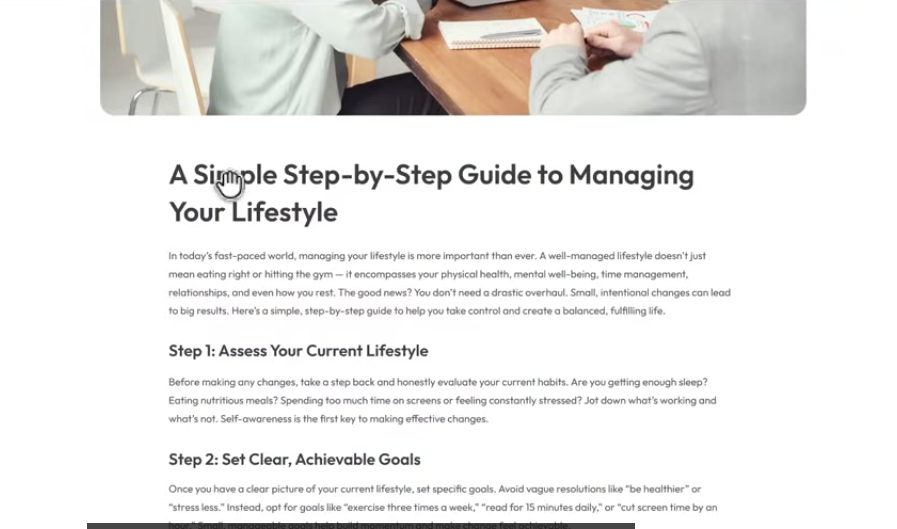
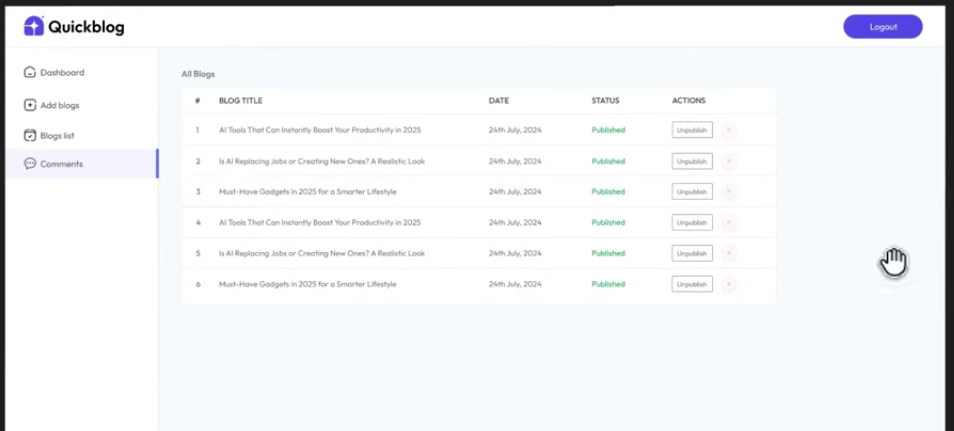
:triangular_flag_on_post: Implement admin panel structure with routing, layout, and basic components
Login Page UI completed

diff --git a/client/src/pages/admin/Login.jsx b/client/src/pages/admin/Login.jsx
@@ -1,0 +1,42 @@
+import {useState} from "react";
+
+
+function Login() {
+    const [inputs, setInputs] = useState({
+        email: "",
+        password: ""
+    })
+
+    const handleSubmit = async (e) => {
+        e.preventDefault();
+    }
+    const handleChange = (e) => {
+        const name = e.target.name;
+        const value = e.target.value;
+
+        setInputs(prevState => ({...prevState, [name]: value}))
+    }
+
+    return (
+        <div className={`max-w-115 m-auto my-20 shadow-md shadow-neutral-500 p-6 rounded-md grid gap-16`}>
+            <header className={`text-center grid gap-px pt-8`}>
+                <h1 className={`text-4xl font-semibold`}><span className={`text-primary-light`}>Admin</span> Login</h1>
+                <p className={`text-sm text-text-muted`}>Enter your credentials to access
+                    the admin panel</p>
+            </header>
+            <form onSubmit={handleSubmit} className={`grid gap-8`}>
+                <label className={`grid gap-2`}>
+                    <span className={`font-medium`}>Email</span>
+                    <input value={inputs.email} onChange={handleChange} placeholder={`your email`} className={`h-12 px-3 placeholder:text-text-muted outline-none border-b border-b-border focus:border-b-primary-dark`} type="email" name="email" id="email"/>
+                </label>
+                <label className={`grid gap-2`}>
+                    <span className={`font-medium`}>Password</span>
+                    <input value={inputs.password} onChange={handleChange} placeholder={`your password`} className={`h-12 px-3 placeholder:text-text-muted outline-none border-b border-b-border focus:border-b-primary-dark`} type="password" name="password" id="password"/>
+                </label>
+                <button className={`bg-primary-light/95 border-2 border-transparent hover:border-primary-light hover:bg-primary transition-colors duration-300 text-text-inverse rounded-sm h-12 cursor-pointer`} type="submit">Login</button>
+            </form>
+        </div>
+    );
+}
+
+export default Login;

diff --git a/client/src/App.jsx b/client/src/App.jsx
@@ -2,8 +2,14 @@ import {createBrowserRouter, RouterProvider} from "react-router";
 import Home from "./pages/Home.jsx";
 import Blog from "./pages/Blog.jsx";
 import AppLayout from "./components/AppLayout.jsx";
+import Login from "./pages/admin/Login.jsx";
+import AdminLayout from "./components/admin/AdminLayout.jsx";
+import AdminDashboard from "./pages/admin/AdminDashboard.jsx";
+import AdminAddBlog from "./pages/admin/AdminAddBlog.jsx";
+import AdminBlogList from "./pages/admin/AdminBlogList.jsx";
+import AdminComment from "./pages/admin/AdminComment.jsx";
 
-
+const AUTH = true
 const router = createBrowserRouter([
     {
         path: `/`,
@@ -14,11 +20,33 @@ const router = createBrowserRouter([
                 Component: Home
             },
             {
-                path: "/blog/:id",
+                path: `/blog/:id`,
                 Component: Blog,
             },
         ]
     },
+    {
+        path: `/admin`,
+        element: AUTH ? <AdminLayout /> : <Login />,
+        children: [
+            {
+                index: true,
+                Component: AdminDashboard
+            },
+            {
+                path: `add`,
+                Component: AdminAddBlog
+            },
+            {
+                path: `list`,
+                Component: AdminBlogList
+            },
+            {
+                path: `comment`,
+                Component: AdminComment
+            },
+        ]
+    }
 ]);
 
 

diff --git a/client/src/components/admin/Sidebar.jsx b/client/src/components/admin/Sidebar.jsx
@@ -1,0 +1,30 @@
+import {NavLink} from "react-router";
+import {BookCheck, HomeIcon, MessageCircleMore, SquarePlus} from "lucide-react";
+
+
+function Sidebar() {
+    return (
+        <div className={`max-w-60 flex-1`}>
+            <nav className={`h-screen shadow-xs shadow-neutral-400`}>
+                <NavLink to={`/admin`} end={true} className={({isActive}) => `sidebar-item ${isActive && `bg-primary-light/10 border-r-primary-light`}`}>
+                    <HomeIcon />
+                    <span>Dashboard</span>
+                </NavLink>
+                <NavLink to={`/admin/add`} className={({isActive}) => `sidebar-item ${isActive && `bg-primary-light/10 border-r-primary-light`}`}>
+                    <SquarePlus />
+                    <span>Add blogs</span>
+                </NavLink>
+                <NavLink to={`/admin/list`} className={({isActive}) => `sidebar-item ${isActive && `bg-primary-light/10 border-r-primary-light`}`}>
+                    <BookCheck />
+                    <span>Blogs list</span>
+                </NavLink>
+                <NavLink to={`/admin/comment`} className={({isActive}) => `sidebar-item ${isActive && `bg-primary-light/10 border-r-primary-light`}`}>
+                    <MessageCircleMore />
+                    <span>Comments</span>
+                </NavLink>
+            </nav>
+        </div>
+    );
+}
+
+export default Sidebar;

diff --git a/client/src/components/admin/Navbar.jsx b/client/src/components/admin/Navbar.jsx
@@ -1,0 +1,27 @@
+import {assets} from "../../assets/assets.js";
+import {useNavigate} from "react-router";
+
+
+function Navbar() {
+    const navigate = useNavigate();
+
+    const handleLogout = () => {}
+
+    return (
+        <header className={`flex justify-between items-center py-5 px-8 shadow-xs shadow-neutral-200`}>
+            <div onClick={() => navigate("/")} className={`cursor-pointer flex gap-3 items-center`}>
+                <img src={`${assets.logo}`} alt="logo" className={`w-7 sm:w-8`}/>
+                <span className={`text-lg sm:text-xl font-medium`}>Quick blog</span>
+            </div>
+            <button
+                type={`button`}
+                onClick={handleLogout}
+                className={`flex items-center gap-3 rounded-full hover:bg-primary sm:px-5 sm:py-2.5 px-4 py-1 font-bold text-text-inverse cursor-pointer bg-primary-light transition-colors duration-300`}
+            >
+                Logout
+            </button>
+        </header>
+    );
+}
+
+export default Navbar;

diff --git a/client/src/index.css b/client/src/index.css
@@ -40,6 +40,10 @@
         @apply hover:bg-primary-light/95 hover:border-primary-light bg-primary transition-colors duration-300 rounded-full text-text-inverse;
     }
 
+    .sidebar-item {
+        @apply flex gap-2 font-medium h-16 items-center hover:bg-primary-light/10 cursor-pointer transition-colors duration-200 ease-out border-r-5 border-r-transparent hover:border-r-primary-light px-6;
+    }
+
     .prose {
         @apply text-text leading-relaxed;
 

diff --git a/client/src/components/admin/AdminLayout.jsx b/client/src/components/admin/AdminLayout.jsx
@@ -1,0 +1,18 @@
+import {Outlet} from "react-router";
+import Navbar from "./Navbar.jsx";
+import Sidebar from "./Sidebar.jsx";
+
+
+function AdminLayout() {
+    return (
+        <>
+            <Navbar />
+            <div className={`flex gap-4`}>
+                <Sidebar />
+                <Outlet />
+            </div>
+        </>
+    );
+}
+
+export default AdminLayout;

diff --git a/client/src/pages/admin/AdminDashboard.jsx b/client/src/pages/admin/AdminDashboard.jsx
@@ -1,0 +1,9 @@
+
+
+function AdminDashboard() {
+    return (
+        <div>AdminDashboard</div>
+    );
+}
+
+export default AdminDashboard;

diff --git a/client/src/pages/admin/AdminBlogList.jsx b/client/src/pages/admin/AdminBlogList.jsx
@@ -1,0 +1,9 @@
+
+
+function AdminBlogList() {
+    return (
+        <div>AdminBlogList</div>
+    );
+}
+
+export default AdminBlogList;

diff --git a/client/src/pages/admin/AdminAddBlog.jsx b/client/src/pages/admin/AdminAddBlog.jsx
@@ -1,0 +1,9 @@
+
+
+function AdminAddBlog() {
+    return (
+        <div>AdminAddBlog</div>
+    );
+}
+
+export default AdminAddBlog;

diff --git a/client/src/pages/admin/AdminComment.jsx b/client/src/pages/admin/AdminComment.jsx
@@ -1,0 +1,9 @@
+
+
+function AdminComment() {
+    return (
+        <div>AdminComment</div>
+    );
+}
+
+export default AdminComment;
